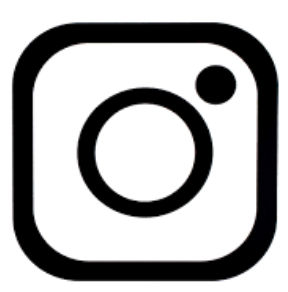
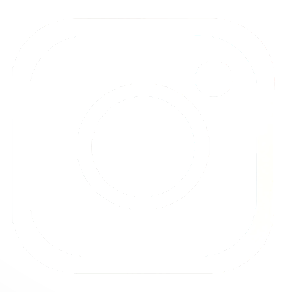
update

diff --git a/index.html b/index.html
@@ -1,100 +1,201 @@
 <!DOCTYPE html>
 <html lang="en">
-<meta charset="UTF-8">
-<title>WhimFolk</title>
-<link rel="icon" href="imgs/favicon.ico">
-<meta name="viewport" content="width=device-width,initial-scale=1">
-<link href="https://fonts.googleapis.com/icon?family=Material+Icons" rel="stylesheet">
-<link rel="stylesheet" href="https://www.w3schools.com/w3css/5/w3.css">
-<script src="https://www.w3schools.com/lib/w3.js"></script>
+<head>
+  <meta charset="UTF-8">
+  <title>WhimFolk</title>
+  <link rel="icon" href="imgs/favicon.ico">
+  <meta name="viewport" content="width=device-width, initial-scale=1">
+  <link href="https://fonts.googleapis.com/icon?family=Material+Icons" rel="stylesheet">
+  <link rel="stylesheet" href="https://www.w3schools.com/w3css/5/w3.css">
+  <style>
+    body {
+      margin: 0;
+    }
+
+    /* Hero */
+    .hero {
+      position: relative;
+      width: 100%;
+      height: 340px;
+      display: flex;
+      align-items: center;
+      justify-content: center;
+      overflow: hidden;
+    }
+    .hero-bg {
+      position: absolute;
+      inset: 0;
+      width: 100%;
+      height: 100%;
+      object-fit: cover;
+    }
+    .hero-logo {
+      position: relative;
+      z-index: 1;
+      width: 80%;
+      max-width: 640px;
+    }
+
+    /* About */
+    #about p {
+      max-width: 720px;
+      margin: 0 auto;
+      line-height: 1.7;
+      font-size: 1rem;
+      color: #222;
+    }
+
+    /* Members */
+    .members-row {
+      display: flex;
+      justify-content: center;
+      gap: 40px;
+      flex-wrap: wrap;
+    }
+    .member {
+      position: relative;
+      width: 260px;
+    }
+    .member img {
+      width: 100%;
+      display: block;
+    }
+    .member h4 {
+      position: absolute;
+      bottom: 0;
+      left: 0;
+      right: 0;
+      margin: 0;
+      color: white;
+      background: rgba(0, 0, 0, 0.45);
+      padding: 8px 0;
+      text-align: center;
+      font-size: 1.1rem;
+      letter-spacing: 0.05em;
+    }
+
+    /* Video */
+    .video-wrapper {
+      display: flex;
+      justify-content: center;
+    }
+    .video-wrapper video {
+      width: 90%;
+      max-width: 640px;
+    }
+
+    /* Contact */
+    #contact {
+      text-align: center;
+      line-height: 2;
+      font-size: 1rem;
+      color: #222;
+    }
+    .contact-btn {
+      display: inline-flex;
+      align-items: center;
+      gap: 8px;
+      background: #111;
+      color: #fff;
+      border: none;
+      padding: 12px 24px;
+      border-radius: 8px;
+      font-size: 0.9rem;
+      letter-spacing: 0.08em;
+      cursor: pointer;
+      margin-top: 12px;
+    }
+    .contact-btn:hover {
+      background: #333;
+    }
+
+    /* Footer */
+    footer {
+      background: #111;
+      text-align: center;
+      padding: 24px 16px;
+      cursor: pointer;
+    }
+    .footer-inner {
+      display: inline-flex;
+      align-items: center;
+      gap: 10px;
+      opacity: 0.75;
+      transition: opacity 0.2s;
+    }
+    footer:hover .footer-inner {
+      opacity: 1;
+    }
+    footer img {
+      display: block;
+    }
+  </style>
+</head>
 <body>
 
-<!-- Navigation (Stays on Top) 
-<div class="w3-top w3-bar w3-black">
-<a href="#home" class="w3-bar-item w3-button">Home</a>
-<a href="#contact" class="w3-bar-item w3-button">Contact</a>
-</div>-->
+<header>
+	<!-- Hero -->
+  <div class="hero">
+    <img class="hero-bg" src="imgs/BywardMarketMusicians2COMP.jpg" alt="WhimFolk performing">
+    <img class="hero-logo" src="imgs/WhimFolkLogo.png" alt="WhimFolk">
+  </div>
 
-<!-- Start Content -->
+</header>
+
 <div id="home" class="w3-content">
 
-<div style="position:relative;width:100%;height:360px;display:flex;align-items:center;justify-content:center;overflow:hidden;">
-  <img src="imgs/BywardMarketMusicians2COMP.jpg" style="position:absolute;inset:0;width:100%;height:100%;object-fit:cover;" />
-  <img src="imgs/WhimFolkLogo.png" style="position:relative;z-index:1;width:100%;height:80%;object-fit:cover;border-radius:8px;opacity:1.00;mix-blend-mode:normal;" />
+  
+  <!-- About -->
+  <div id="about" class="w3-container w3-padding-32 w3-large">
+    <p><strong>WhimFolk</strong> is an Ottawa-based guitar duo bringing a rich blend of genres to the local stage. Founded in 2015, the band features Jason Fleischer (vocals, guitar) and Mark Boycott (guitar, percussion). Known for their versatile repertoire, WhimFolk seamlessly weaves together folk, blues, country, and rock—from timeless classics to modern favorites. Whether performing at a bustling farmers' market or an intimate local venue, their soulful arrangements create the perfect atmosphere for any crowd.</p>
+  </div>
+
+  <!-- Members -->
+  <div id="members" class="w3-container w3-padding-32">
+    <div class="members-row">
+      <div class="member">
+        <img src="imgs/BywardMarketMusicians3COMP.jpg" alt="Jason">
+        <h4>Jason</h4>
+      </div>
+      <div class="member">
+        <img src="imgs/BywardMarketMusicians4COMP.jpg" alt="Mark">
+        <h4>Mark</h4>
+      </div>
+    </div>
+  </div>
+
+  <!-- Video -->
+  <div id="videos" class="w3-container w3-padding-32">
+    <div class="video-wrapper">
+      <video controls loop playsinline>
+        <source src="vids/ForWhatItsWorth480p.mov" type="video/mp4">
+        Your browser does not support the video tag.
+      </video>
+    </div>
+  </div>
+
+  <!-- Contact -->
+  <div id="contact" class="w3-container w3-padding-32 w3-large">
+    <p>
+      Ottawa, ON, Canada<br>
+      1-613-407-0602<br>
+      jason_fleischer@hotmail.ca
+    </p>
+    <button class="contact-btn" onclick="window.location.href='mailto:jason_fleischer@hotmail.ca?Subject=WhimFolk%20-%20Inquiry'">
+      <i class="material-icons" style="font-size:18px;">email</i>
+      CONTACT US
+    </button>
+  </div>
+
 </div>
 
-
-<!-- About -->
-<div id="about" class="w3-container w3-padding-32">
-	<p><strong>Whimfolk</strong> is an Ottawa-based guitar duo bringing a rich blend of genres to the local stage. Founded in 2015, the band features Jason Fleischer (vocals, guitar) and Mark Boycott (guitar, percussion). Known for their versatile repertoire, Whimfolk seamlessly weaves together folk, blues, country, and rock—from timeless classics to modern favorites. Whether they are performing at a bustling farmers' market or an intimate local venue, their soulful arrangements create the perfect atmosphere for any crowd.</p>
-</div>
-
-<!-- Members -->
-<div id="members" class="w3-container w3-padding-32">
-	<div class="w3-row w3-center">
-
-
-		<div class="w3-col" style="width:10%"><p></p></div>
-  		<div class="w3-col" style="width:40%">
-  			<div style="position:relative; display:inline-block; width:70%">
-                <img src="imgs/BywardMarketMusicians3COMP.jpg" alt="Jason" style="width:100%">
-                <h4 style="position:absolute; bottom:10px; left:0; right:0; margin:0; color:white; background:rgba(0,0,0,0.4); padding:6px 0;">Jason</h4>
-            </div>
-  		</div>  		
-		<div class="w3-col" style="width:40%">
-			<div style="position:relative; display:inline-block; width:70%">
-                <img src="imgs/BywardMarketMusicians4COMP.jpg" alt="Jason" style="width:100%">
-                <h4 style="position:absolute; bottom:10px; left:0; right:0; margin:0; color:white; background:rgba(0,0,0,0.4); padding:6px 0;">Mark</h4>
-            </div>
-		</div>
-		<div class="w3-col" style="width:10%"><p></p></div>
-	</div>
-</div>
-
-<br><br>
-<!-- Videos -->
-<div id="videos" class="w3-container w3-padding-32">
-	<div class="w3-row w3-center" style="display:flex; justify-content:center;">
-
-			<video controls loop playsinline class="w3-half">
-			  <source src="vids/ForWhatItsWorth480p.mov" type="video/quicktime" />
-			  <source src="vids/ForWhatItsWorth480p.mov" type="video/mp4" />
-			  Your browser does not support the video tag.
-			</video>
-	</div>
-</div>
-
-
-
-<!-- End Content -->
-
-
-  	<div id="about" class="w3-container w3-padding-32">
-  		<div class="w3-row w3-center" style="display:flex; justify-content:center;">
-			<div class="w3-large w3-margin-bottom">
-				Ottawa, ON, Canada<br>
-				1-613-407-0602<br>
-			 	jason_fleischer@hotmail.ca<br>
-			 	<br>
-			<button class="w3-button w3-black  w3-section" type="submit" onclick="window.location.href ='mailto:jason_fleischer@hotmail.ca?Subject=Whimfolk%20-%20Inquiry';">
-	          <i class="material-icons" style="font-size:18px">email</i> &nbsp;CONTACT US
-	        </button>
-			</div>
-
-    	</div>
-  	</div>
-</div>
-</div>
-
-<footer class="w3-center w3-black w3-padding-32 w3-opacity">
-  <div class="w3-xlarge w3-section">
-    <a href="https://github.com/jasonfleischer" target="_blank"><i class="fa fa-github w3-hover-opacity"></i></a>
-    <a href="https://www.linkedin.com/in/jason-fleischer-150242127" target="_blank"><i class="fa fa-linkedin w3-hover-opacity"></i></a>
+<!-- Footer -->
+<footer onclick="window.location.href='https://www.instagram.com/whimfolk/'">
+  <div class="footer-inner">
+    <img src="imgs/instagram.png" width="40" alt="Instagram">
+    <img src="imgs/instagram_whimfolk.png" width="100" alt="@whimfolk">
   </div>
 </footer>
-
-
-</div>
 
 </body>
 </html>
